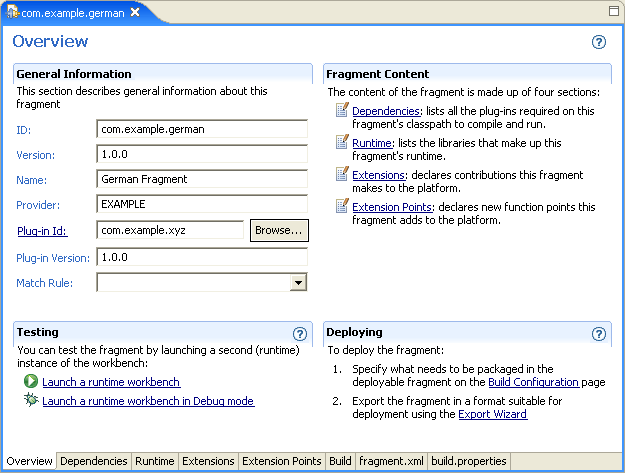
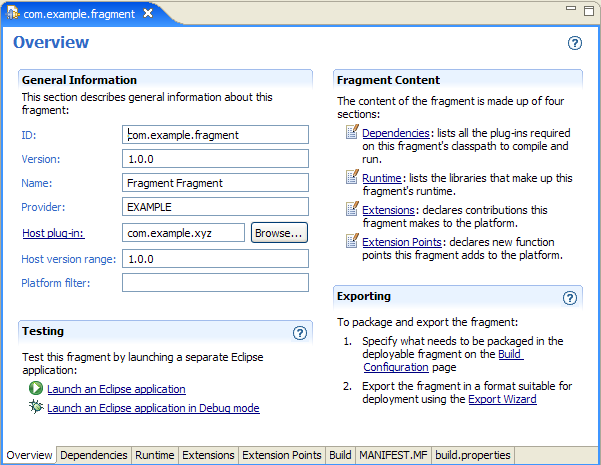
*** empty log message ***

Changed region(s): [[0.0, 0.0, 1.0, 1.0]]

diff --git a/bundles/org.eclipse.pde.doc.user/guide/pde_fragment_example.htm b/bundles/org.eclipse.pde.doc.user/guide/pde_fragment_example.htm
@@ -13,33 +13,22 @@
 <p>The PDE wizards and editors that manipulate plug-ins and fragments are nearly the
 same.&nbsp; However, you must be aware of some important differences.</p>
 <p>We start by creating a new fragment project.&nbsp;&nbsp;</p>
-<p>On the first page of the New Fragment Project wizard, type the project name &quot;com.example.german&quot;.&nbsp;
-Accept the default values and press
-<b>Next</b>. The &quot;Fragment Content&quot; page
-has three additional fields from the plug-in creation wizard: parent plug-in id, 
-parent plug-in version, and version match rule.</p>
-<p>Since we are writing a fragment for a specific 
-plug-in, we can use the <b>Browse</b> button to select 
-&quot;com.example.xyz&quot; in the plug-in selection dialog.  Using the dialog, we
-could have also chosen any external plug-in.</p>
+<p>On the first page of the New Fragment Project wizard, type the project name 
+  &quot;com.example.german&quot;.&nbsp; Accept the default values and press <b>Next</b>. 
+</p>
+<p>The <strong>Fragment Content</strong> page has three additional fields from 
+  the plug-in creation wizard: host plug-in id, parent plug-in version, and version 
+  match rule.</p>
+<p>Since we are writing a fragment for a specific plug-in, we can use the <b>Browse</b> 
+  button to select &quot;com.example.xyz&quot; in the plug-in selection dialog. 
+  Using the dialog, we could have also chosen any external plug-in.</p>
 <p align="center">
 <img border="0" src="images/fragment-content.png" alt="Fragment example - sample fragment content page" ></p>
-<p align="left">Once the project is created, it opens the fragment manifest
-editor.</p>
+<p align="left">Once the project is created, it opens the fragment manifest editor.</p>
 <p align="center">
 <img border="0" src="images/fragment-overview.png" alt="Fragment example - manifest overview"></p>
-<p align="left">
-It is almost identical to plug-in manifest editor with the following exceptions:</p>
-<ol>
-  <li>
-    In the Overview page, the &quot;class&quot; attribute is gone.&nbsp;
-    Fragments do not have a plug-in class since they follow the life cycle of
-    their parent plug-in.&nbsp; Instead, the parent plug-in id and version
-    fields are shown.</li>
-  <li>
-    A drop-down combo box labelled "Match Rule" allows for precise definition of the plug-in reference
-    (perfect, compatible, equivalent etc.).</li>
-</ol>
+<p align="left"> As opposed to a plug-in, a fragment does no have a plug-in class 
+  since they follow the life cycle of their host plug-in.</p>
 <p align="left">We will add a similar action set as in the plug-in example, but
 this time in German.</p>
 <ol>
